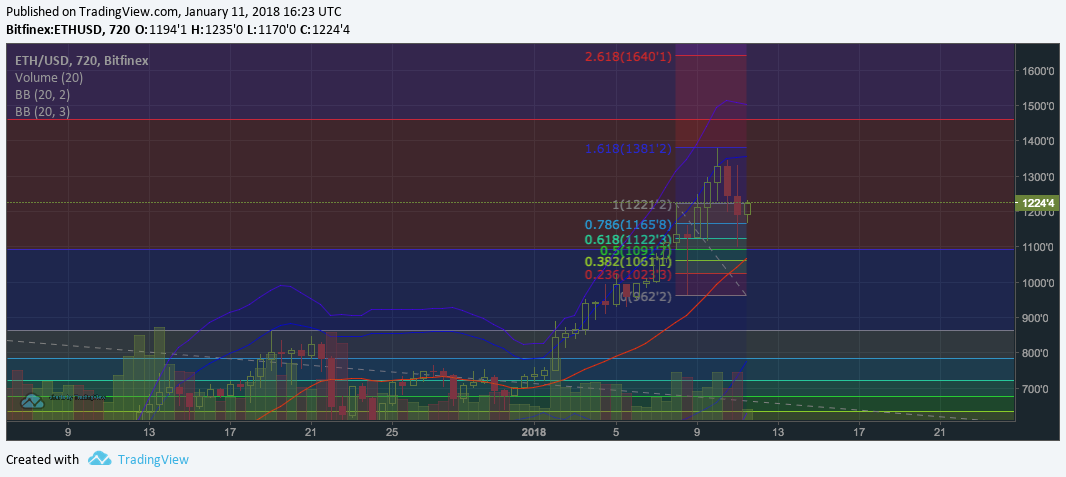
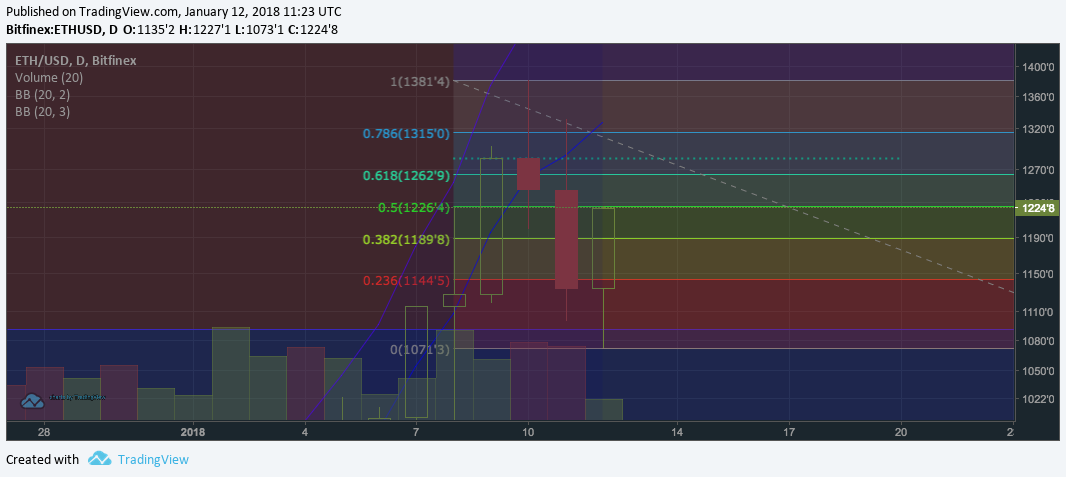
.

diff --git a/_layouts/fibs.html b/_layouts/fibs.html
@@ -97,7 +97,9 @@ layout: default-news
               <p>{{ site.ledger_728-90_animated }}</p>
 
               <section id="btc-crypto-pairs">
+                {% if page.ratios %}
                 <h2>Ratio Charts</h2>
+                {% endif %}
 
                 <div class="strategy-content fibs-charts">
     							{% for item in page.ratios %}

diff --git a/_fibs/daily.md b/_fibs/daily.md
@@ -1,7 +1,7 @@
 ---
 published: true
 date: 2017-12-27 10:36:00 +0100
-update: 2018-01-11 17:41:00 +0100
+update: 2018-01-12 12:41:00 +0100
 
 layout: fibs
 title: "Fib Levels for Crypto Markets"
@@ -17,18 +17,18 @@ name: "daily/"
 image: ["/features/fibs.jpeg"]
 
 dollars:
-- { market: "BTCUSD", chart: "/fibs/btcusd.png", comment: "Judging by the fact that on the SK FUD the price didn't drop wildly, the market seems to be gaining confidence. The bands are tightening and pointing horizontaly now, not down. Sitting on 2 fib support levels, this could actually bounce." }
-- { market: "IOTUSD", chart: "/fibs/iotusd.png", comment: "IOTA paints a similar situation as BTCUSD." }
-- { market: "XRPUSD", chart: "/fibs/xrpusd.png", comment: "Riding on the Moneygram partnership news. Technically, not considering wicks, the 1.7 USD fib level was somewhat respected after all and the candle close bounce from the 1D MA is bullish." }
-- { market: "ETHUSD", chart: "/fibs/ethusd.png", comment: "During the full on market crash, ETHUSD didn't drop past testing the previous ATH wicks. The bias is bullish but the market could also consolidate and form a range here before attacking 1400 USD again." }
-ratios:
-- { market: "ETHBTC", chart: "/fibs/ethbtc.png", comment: "The surge to .1 BTC was indeed stopped by the bband. On the next push, there will be some resistance on the candle closes at .089 but the action depends on both ETHUSD and BTCUSD actions now." }
+- { market: "BTCUSD", chart: "/fibs/btcusd.png", comment: "While bitcoin is still in the danger of panic selloff, the bottom wicks, bbands and bull divergences (not on this chart) are looking positive. The bad news is there is plenty of resistance right where it sits (the dotted lines) from old candle closes. On top of that, the weekend is coming where the volume is typically lower, but the sentiment seems to be there's plenty of cash on the sidelines ready to pull the trigger once the market shows some action in either direction." }
+- { market: "EOSUSD", chart: "/fibs/eosusd.png", comment: "EOS broke upwards out of the consolidation zone, which is bullish and targeting the next fibs for retracements (next one at cca 18USD). There could be a throwback to previous ATH before it continues to surge though." }
+- { market: "OMGUSD", chart: "/fibs/omgusd.png", comment: "OmiseGo had a surge through the previous ATH (21.5 USD) and stopped at the next fib (29.2 USD). Consolidation from there looks complete now, with throwback to the previous ATH." }
+- { market: "ETHUSD", chart: "/fibs/ethusd.png", comment: "ETH is still finishing its bounce. Other than fibs, there will be some double top resistance and ETH could be making a consolidation range - which would mean one more drop down." }
+- { market: "BCHUSD", chart: "/fibs/bchusd.png", comment: "There have been some voices that BCH is nearing the end of its consolidation and there could be a surge soon. It is based more on news and social media rather than TA though." }
+
+#ratios:
+#- { market: "ETHBTC", chart: "/fibs/ethbtc.png", comment: "The surge to .1 BTC was indeed stopped by the bband. On the next push, there will be some resistance on the candle closes at .089 but the action depends on both ETHUSD and BTCUSD actions now." }
 ---
 
 
 > Relevant news for today
 
-* [Moneygram partners with Ripple](https://www.wsj.com/articles/moneygram-signs-deal-to-work-with-currency-startup-ripple-1515679285) testing XRP usage
-* [South Korean authorities raided cryptocurrency exchanges](https://www.reddit.com/r/BitcoinMarkets/comments/7pls2r/megathread_korean_bans_crypto_episode_3/)
-* [The South Korean ban is not really a ban, as always](https://www.forbes.com/sites/pamelaambler/2017/12/12/south-korea-is-not-banning-bitcoin-trade-financial-regulators-clarify/amp/)
-* [EOS is making big gains today but apparently there is no news it can be attributed to](https://themerkle.com/eos-price-seems-to-be-stabilizing-near-10/)
+* [Vitalik on the UnChained podcast](https://tunein.com/radio/Unchained-Big-Ideas-From-The-Worlds-Of-Blockchain-And-Fintech-p887100/)
+* [Cisco found vulnerabilities in Ethereum clients](https://hype.codes/cisco-found-many-vulnerabilities-ethereums-clients): "Processing of smart contracts with the operational code create2 can trigger a DoS attack. The implementation of create2 in the main network of Ethereum is planned within the second phase of the Metropolis' hardfork called Constantinople. This vulnerability currently threatens only those nodes that already use the create2 opcode. However, in potential, the Ethereum network can run the risk of concurrently attacking all nodes immediately after the implementation of the hardware, when create2 will enter the default settings list."
